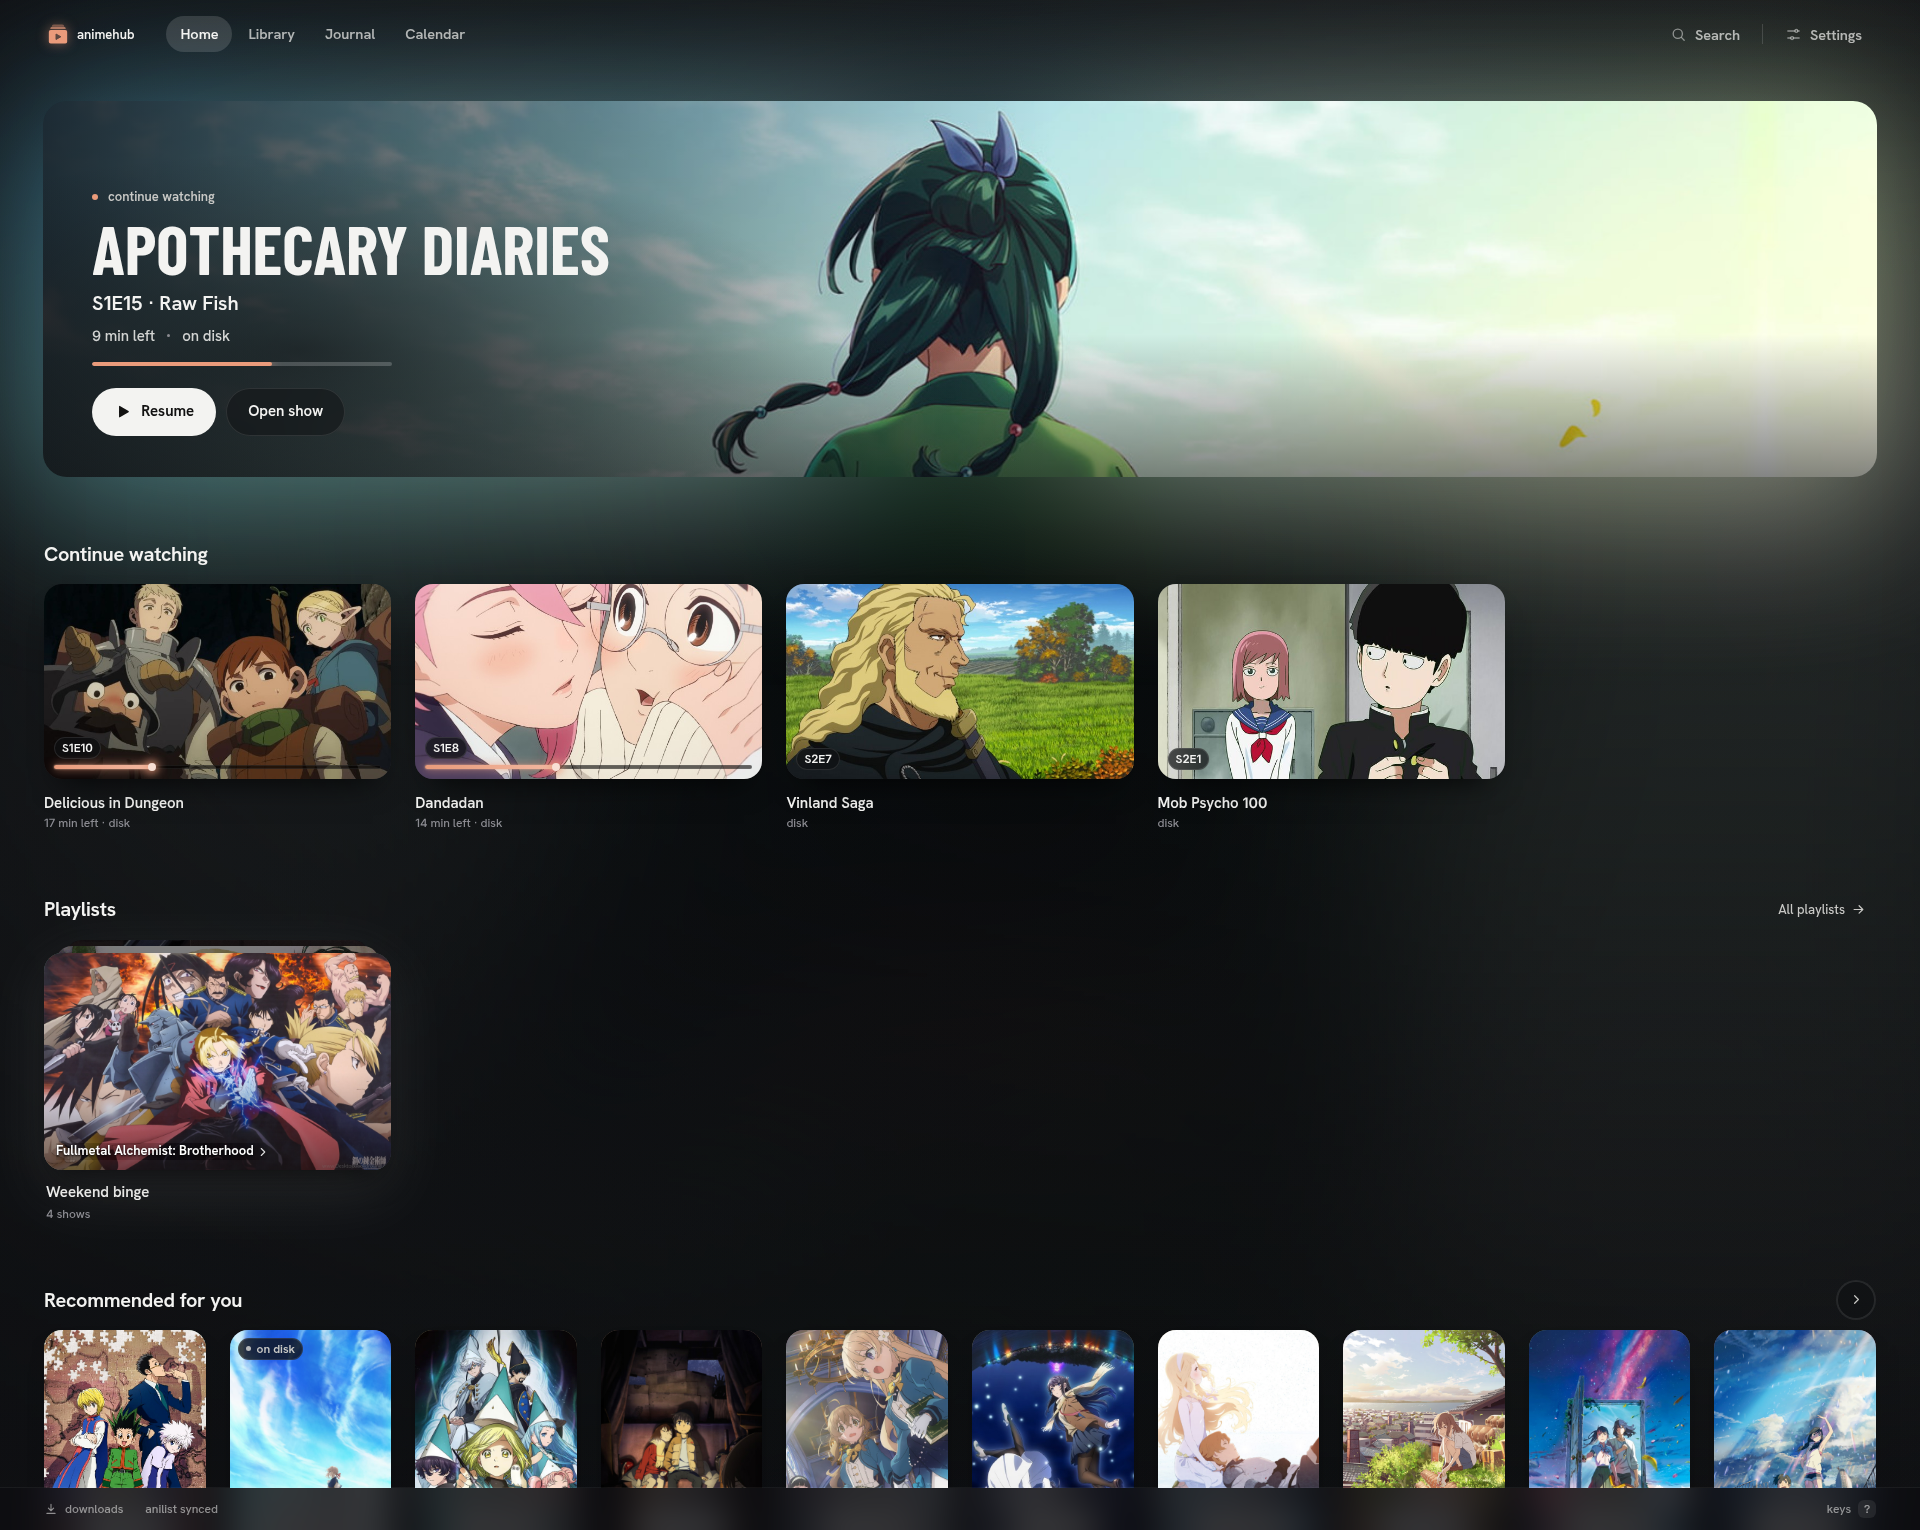
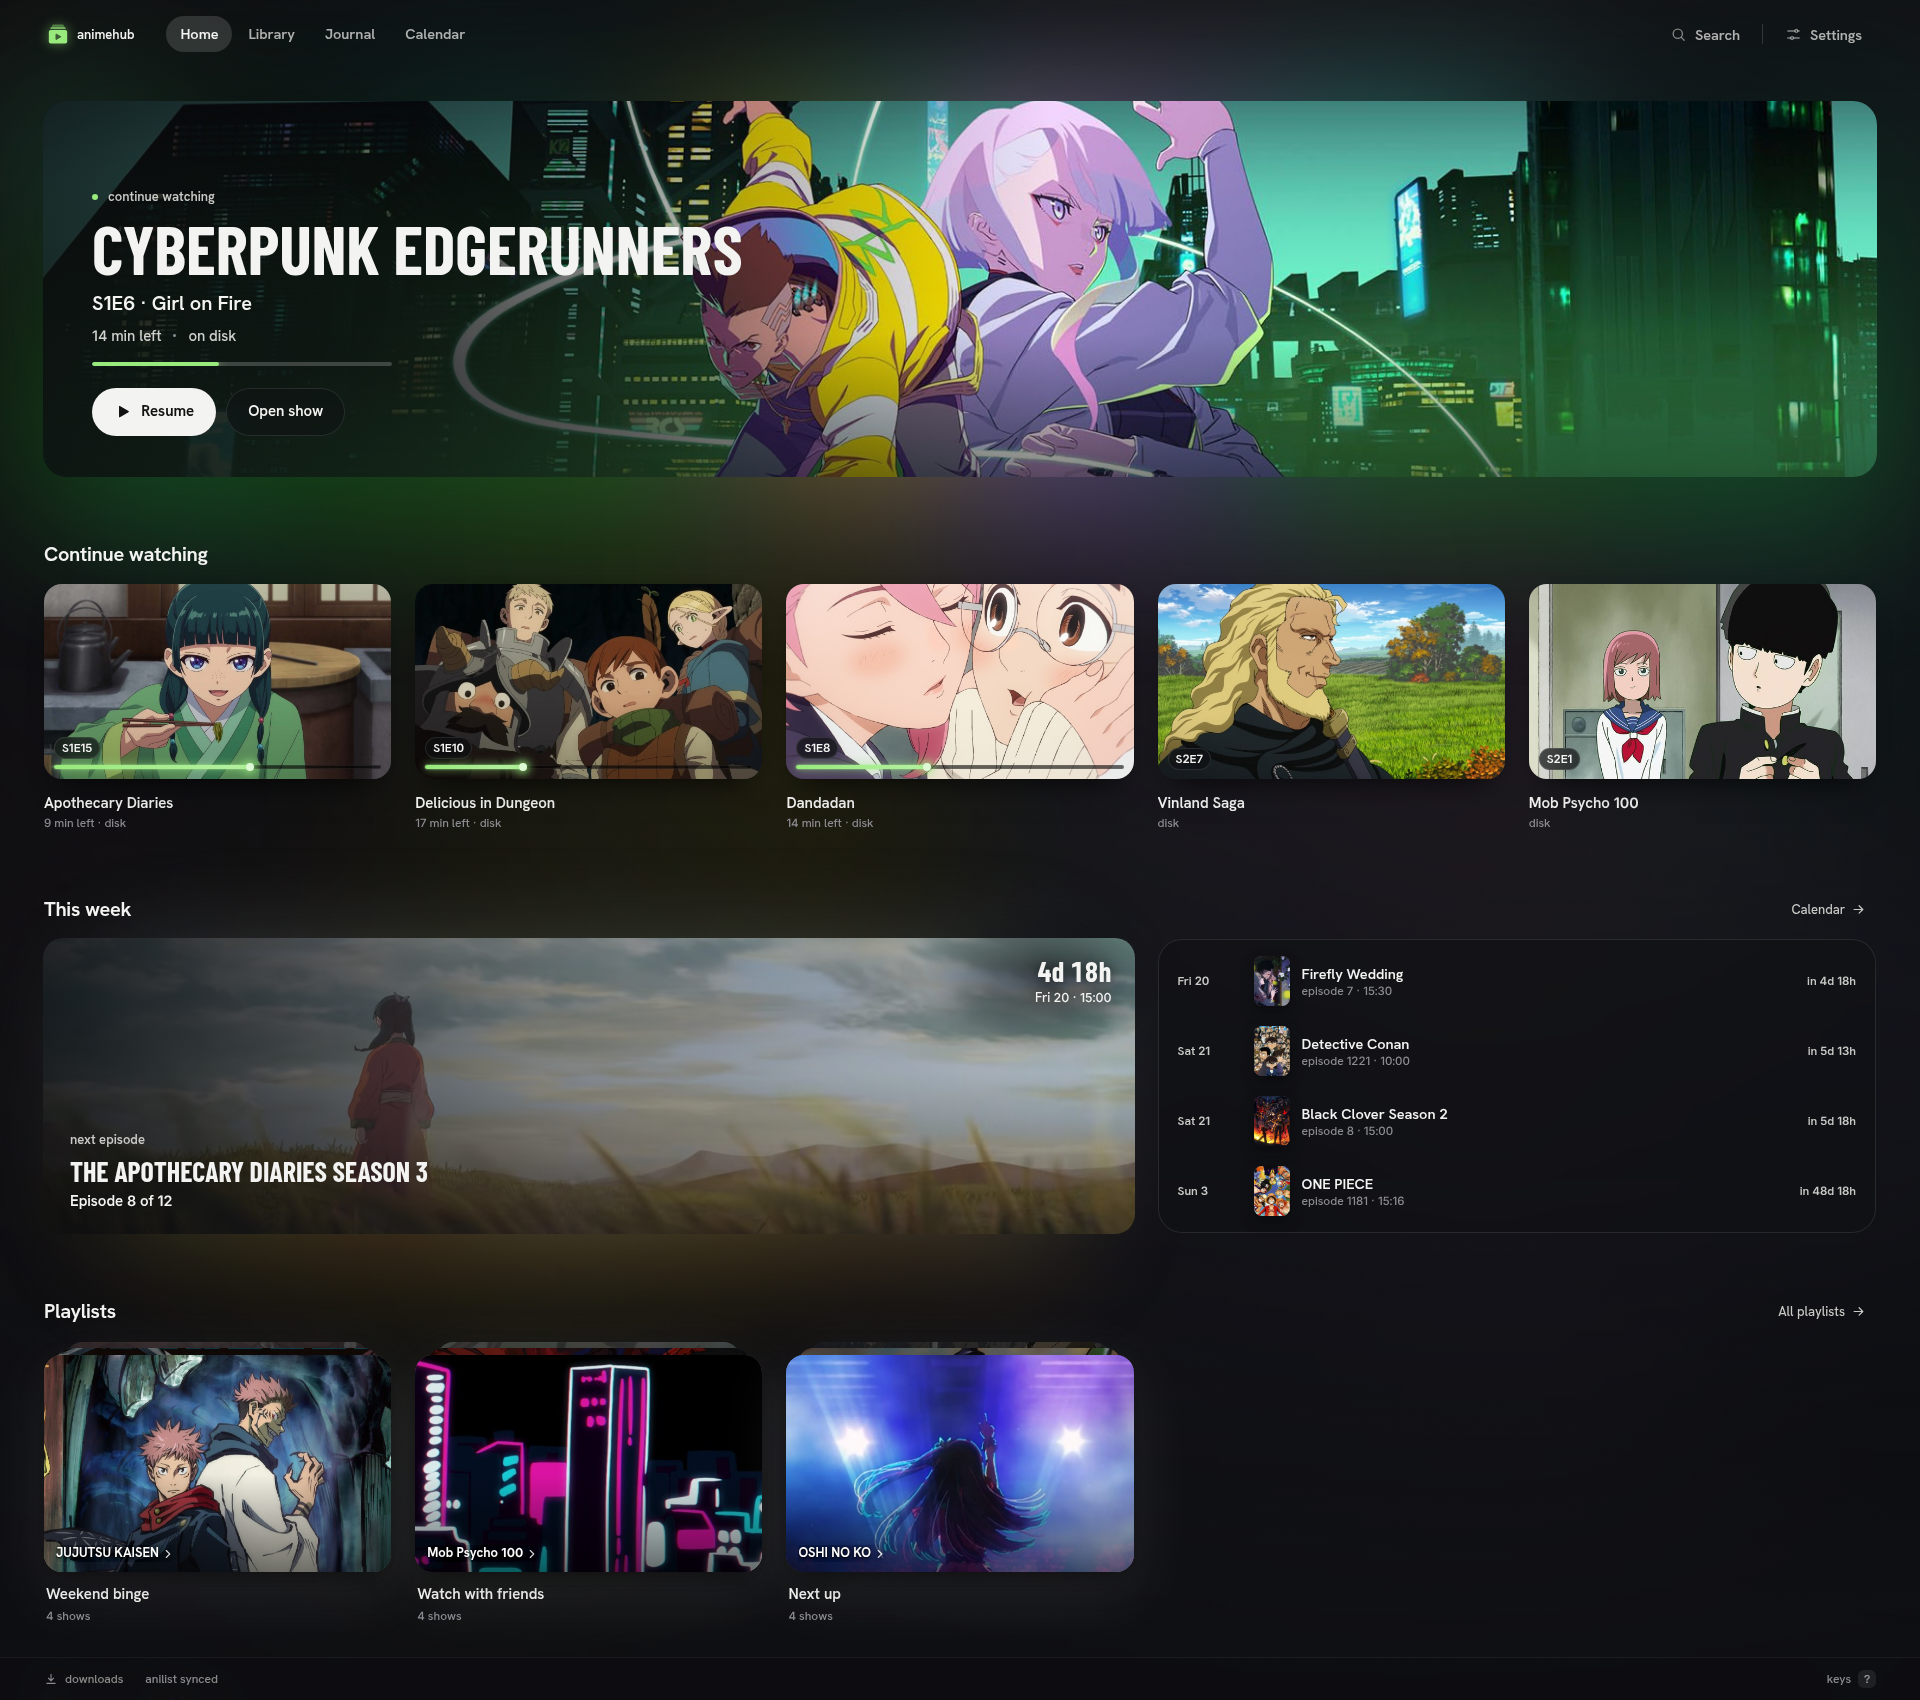
Screenshots: Edgerunners, Jujutsu Kaisen, Mob Psycho and Oshi no Ko instead of Frieren; README feedback line

diff --git a/README.md b/README.md
@@ -3,7 +3,7 @@
 Your anime in one place. Your files and your AniList list on one page per show, played in mpv, or in the Android app on your phone.
 
 ## Important!
-This app is early in development — expect bugs and breaking changes.
+This app is early in development — expect bugs and breaking changes. **Feedback is appreciated!**
 
 ![Home](docs/screenshots/home.png)
 
